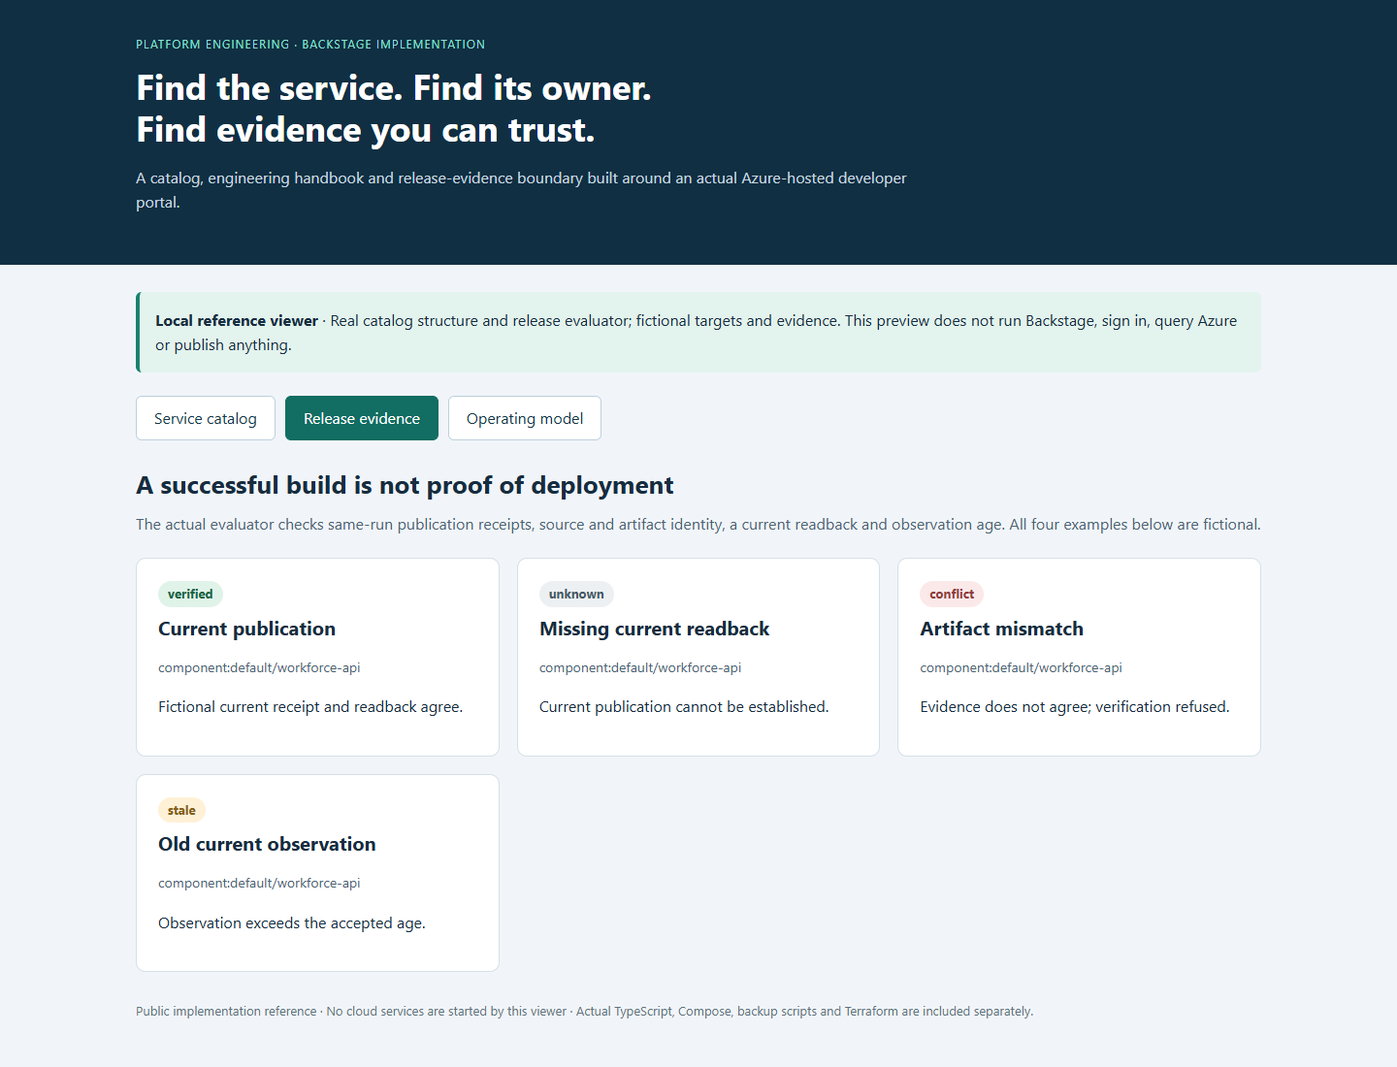
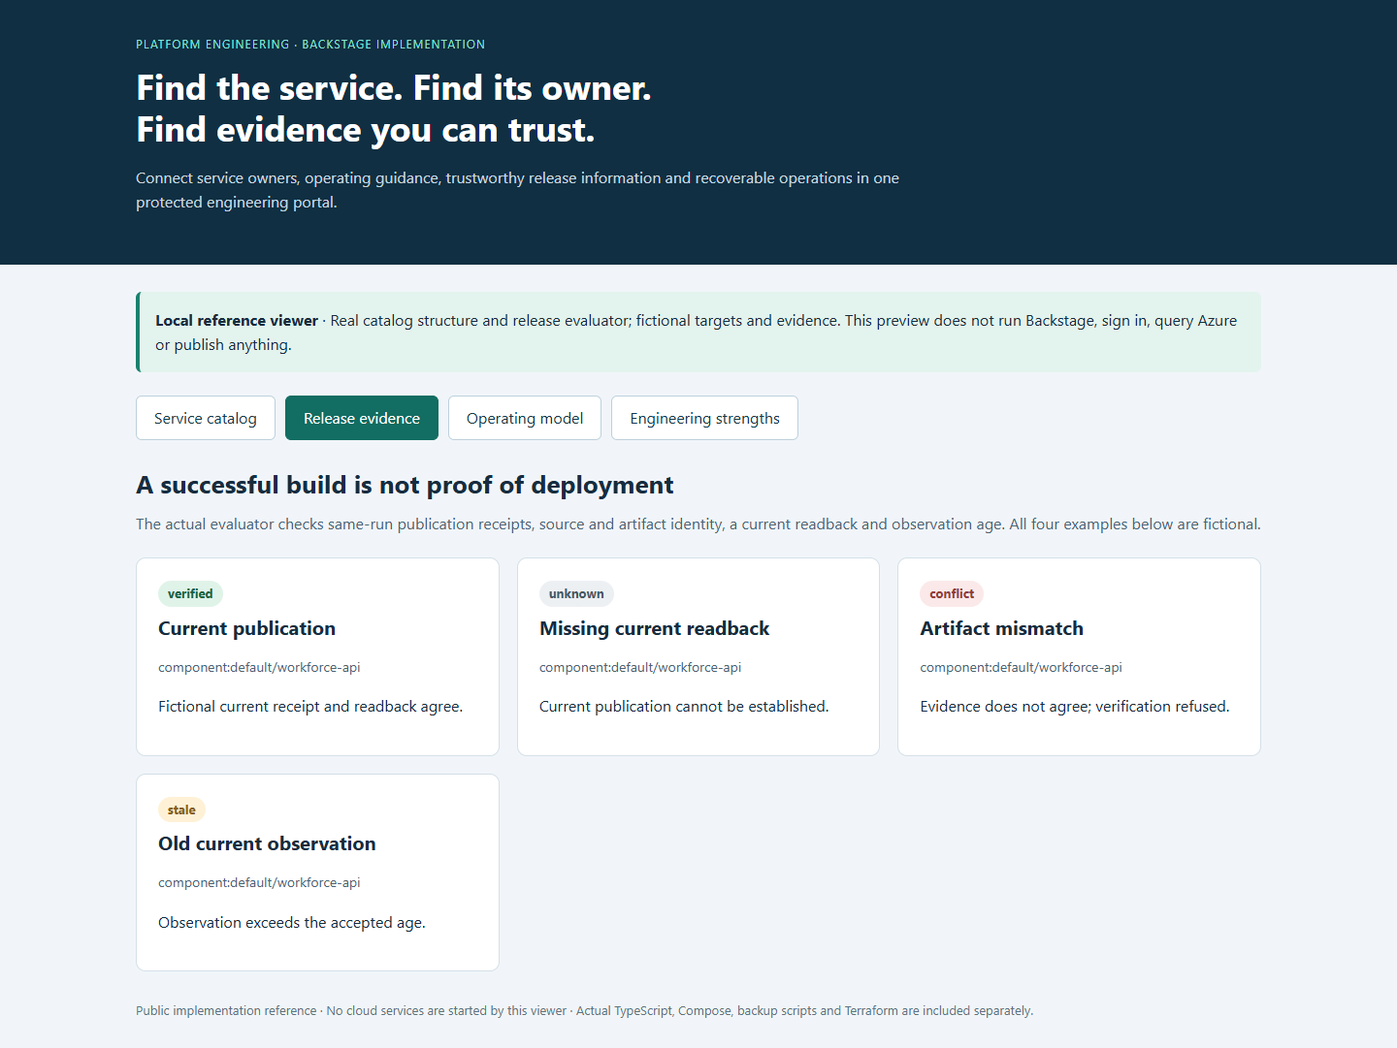
Highlight evidenced Backstage engineering strengths

diff --git a/preview/index.html b/preview/index.html
@@ -1,6 +1,6 @@
 <!doctype html><html lang="en"><meta charset="utf-8"><meta name="viewport" content="width=device-width,initial-scale=1"><title>Engineering portal reference</title><style>
 *{box-sizing:border-box}body{margin:0;background:#f1f5f9;color:#172c3e;font:16px/1.6 system-ui,sans-serif}header{background:#102f42;color:white;padding:36px max(24px,calc((100vw - 1160px)/2))}header p{color:#c7d8e1;max-width:820px}h1{font-size:36px;line-height:1.2;margin:12px 0}main{max-width:1208px;margin:auto;padding:28px 24px}.tag{font-size:12px;letter-spacing:.09em;text-transform:uppercase;color:#89e2d1}.notice{background:#e3f3ed;border-left:4px solid #18816d;padding:16px;margin-bottom:24px;border-radius:6px}nav{display:flex;gap:10px;flex-wrap:wrap;margin:24px 0}button{font:inherit;border:1px solid #bdd0dc;background:white;color:#17394a;padding:9px 18px;border-radius:6px;cursor:pointer}button[aria-selected=true]{background:#126d62;color:white;border-color:#126d62}.cards{display:grid;grid-template-columns:repeat(3,1fr);gap:18px}.card{background:white;border:1px solid #d4e0e8;border-radius:10px;padding:22px;overflow-wrap:anywhere}.card h3{margin:5px 0 12px;font-size:20px}.kind{font-size:12px;font-weight:700;text-transform:uppercase;color:#4d6c7f}.meta{font-size:14px;color:#4b6474}.status{display:inline-block;padding:3px 10px;border-radius:20px;background:#e0f3e9;color:#186344;font-size:13px;font-weight:bold}.unknown{background:#edf0f3;color:#465866}.conflict{background:#fbe9e9;color:#913c3c}.stale{background:#fff1d6;color:#84601d}h2{margin:12px 0 8px;font-size:26px}.intro{color:#4b6474;margin:0 0 22px}.flow{display:flex;gap:12px;flex-wrap:wrap;align-items:center}.flow strong{background:#e6f2f3;padding:12px;border-radius:6px}footer{font-size:13px;color:#5d7380;margin-top:30px}section[hidden]{display:none}@media(max-width:850px){.cards{grid-template-columns:1fr 1fr}h1{font-size:30px}}@media(max-width:560px){.cards{grid-template-columns:1fr}header{padding:24px}main{padding:22px 18px}}
-</style><header><div class="tag">Platform engineering · Backstage implementation</div><h1>Find the service. Find its owner.<br>Find evidence you can trust.</h1><p>A catalog, engineering handbook and release-evidence boundary built around an actual Azure-hosted developer portal.</p></header><main><div class="notice"><strong>Local reference viewer</strong> · Real catalog structure and release evaluator; fictional targets and evidence. This preview does not run Backstage, sign in, query Azure or publish anything.</div><nav aria-label="Reference sections"><button aria-selected="true" data-tab="catalog">Service catalog</button><button aria-selected="false" data-tab="evidence">Release evidence</button><button aria-selected="false" data-tab="operations">Operating model</button></nav><section id="catalog"><h2>Services, infrastructure and ownership</h2><p class="intro">Catalog metadata connects components to their engineering owners and dependencies. It does not grant access or prove service health.</p><div id="entities" class="cards"></div></section><section id="evidence" hidden><h2>A successful build is not proof of deployment</h2><p class="intro">The actual evaluator checks same-run publication receipts, source and artifact identity, a current readback and observation age. All four examples below are fictional.</p><div id="results" class="cards"></div></section><section id="operations" hidden><h2>Controlled sessions, recoverable state</h2><p class="intro">The implemented single-VM profile balances an internal engineering portal with deliberate runtime and recovery controls.</p><div class="cards"><article class="card"><div class="kind">Access path</div><h3>Two identity layers</h3><p>HTTPS → Caddy → OAuth2 Proxy → Backstage. The ingress group gate and backend engineer policy serve different purposes.</p></article><article class="card"><div class="kind">Persistent state</div><h3>Database + handbook</h3><p>PostgreSQL stays on the internal Docker network. TechDocs publications mount read-only. Protected credentials and TLS state recover separately.</p></article><article class="card"><div class="kind">Cost and recovery</div><h3>Start intentionally</h3><p>Preflight → pull pinned images → start → verify → back up → stop → deallocate. The backup timer never starts a VM.</p></article></div></section><footer>Public implementation reference · No cloud services are started by this viewer · Actual TypeScript, Compose, backup scripts and Terraform are included separately.</footer></main><script>
+</style><header><div class="tag">Platform engineering · Backstage implementation</div><h1>Find the service. Find its owner.<br>Find evidence you can trust.</h1><p>Connect service owners, operating guidance, trustworthy release information and recoverable operations in one protected engineering portal.</p></header><main><div class="notice"><strong>Local reference viewer</strong> · Real catalog structure and release evaluator; fictional targets and evidence. This preview does not run Backstage, sign in, query Azure or publish anything.</div><nav aria-label="Reference sections"><button aria-selected="true" data-tab="catalog">Service catalog</button><button aria-selected="false" data-tab="evidence">Release evidence</button><button aria-selected="false" data-tab="operations">Operating model</button><button aria-selected="false" data-tab="strengths">Engineering strengths</button></nav><section id="catalog"><h2>Services, infrastructure and ownership</h2><p class="intro">Catalog metadata connects components to their engineering owners and dependencies. It does not grant access or prove service health.</p><div id="entities" class="cards"></div></section><section id="evidence" hidden><h2>A successful build is not proof of deployment</h2><p class="intro">The actual evaluator checks same-run publication receipts, source and artifact identity, a current readback and observation age. All four examples below are fictional.</p><div id="results" class="cards"></div></section><section id="operations" hidden><h2>Controlled sessions, recoverable state</h2><p class="intro">The implemented single-VM profile balances an internal engineering portal with deliberate runtime and recovery controls.</p><div class="cards"><article class="card"><div class="kind">Access path</div><h3>Two identity layers</h3><p>HTTPS → Caddy → OAuth2 Proxy → Backstage. The ingress group gate and backend engineer policy serve different purposes.</p></article><article class="card"><div class="kind">Persistent state</div><h3>Database + handbook</h3><p>PostgreSQL stays on the internal Docker network. TechDocs publications mount read-only. Protected credentials and TLS state recover separately.</p></article><article class="card"><div class="kind">Cost and recovery</div><h3>Start intentionally</h3><p>Preflight → pull pinned images → start → verify → back up → stop → deallocate. The backup timer never starts a VM.</p></article></div></section><section id="strengths" hidden><h2>Built to help engineers operate with confidence</h2><p class="intro">Each strength is backed by actual source. The local viewer does not claim fresh sign-in, deployment or recovery acceptance.</p><div class="cards"><article class="card"><div class="kind">Discovery</div><h3>Ownership with context</h3><p>Find the responsible team, linked dependencies and operating guidance instead of searching disconnected files.</p></article><article class="card"><div class="kind">Controlled access</div><h3>Separate read and write authority</h3><p>Ingress admission, backend user mapping and policy checks serve different purposes. The optional writer stays separate and Off by default.</p></article><article class="card"><div class="kind">Release confidence</div><h3>Uncertainty stays visible</h3><p>Verified, Unknown, Conflict and Stale distinguish a current release from an assumption based on a green build.</p></article><article class="card"><div class="kind">Recovery</div><h3>Check more than the upload</h3><p>Database inventories, file hashes, off-host copies and an isolated restore helper make recovery inspectable.</p></article><article class="card"><div class="kind">Runtime</div><h3>Repeatable startup</h3><p>Selected image digests, protected inputs and preflight checks catch known mistakes before starting the stack.</p></article><article class="card"><div class="kind">Operating footprint</div><h3>Start for a purpose</h3><p>On-demand engineering sessions and explicit deallocation limit compute use while making retained costs visible.</p></article></div></section><footer>Public implementation reference · No cloud services are started by this viewer · Actual TypeScript, Compose, backup scripts and Terraform are included separately.</footer></main><script>
 document.querySelectorAll('nav button').forEach(button=>button.addEventListener('click',()=>{document.querySelectorAll('nav button').forEach(b=>b.setAttribute('aria-selected',String(b===button)));document.querySelectorAll('main section').forEach(s=>s.hidden=s.id!==button.dataset.tab)}));
 function element(tag,text,cls){const e=document.createElement(tag);e.textContent=text;if(cls)e.className=cls;return e}
 fetch('/data.json').then(r=>{if(!r.ok)throw Error('Reference data unavailable');return r.json()}).then(data=>{for(const obj of data.entities){const card=element('article','','card');card.append(element('div',obj.kind,'kind'),element('h3',obj.metadata.title||obj.metadata.name),element('p',obj.metadata.description||'Technical platform catalog entity.'));card.append(element('p','Owner: '+(obj.spec.owner||'Engineering catalog'),'meta'));if(obj.spec.dependsOn)card.append(element('p',obj.spec.dependsOn.length+' linked dependencies','meta'));document.getElementById('entities').append(card)}for(const row of data.evidence){const card=element('article','','card');card.append(element('div',row.state,'status '+row.state),element('h3',row.scenario),element('p',row.componentRef,'meta'),element('p',row.state==='verified'?'Fictional current receipt and readback agree.':row.state==='unknown'?'Current publication cannot be established.':row.state==='conflict'?'Evidence does not agree; verification refused.':'Observation exceeds the accepted age.'));document.getElementById('results').append(card)}}).catch(error=>document.getElementById('entities').append(element('p',error.message)));

diff --git a/docs/ENGINEERING-STRENGTHS.md b/docs/ENGINEERING-STRENGTHS.md
@@ -1,0 +1,67 @@
+# Engineering Strengths and Practical Value
+
+The value of this Backstage implementation comes from joining useful engineering information with controlled access and recoverable operations. The public project includes actual implementation source, a fictional local viewer and clearly bounded tests. Those evidence types support different claims.
+
+## 1. Ownership is part of service discovery
+
+A component entry identifies its owner and dependencies, rather than offering only a bookmark. An engineer investigating a worker can move from that component to the surrounding API, identity, storage and operational context. This helps route questions and plan changes without guessing who owns the affected system.
+
+The public catalog contains 16 entities. Its checks cover valid Location targets, unique references and component ownership. Entries still require review and maintenance; catalog metadata does not grant access or prove live health.
+
+**Evidence:** [actual catalog](../catalog/), [catalog checks](../tests/test_catalog.py), [catalog and handbook guide](CATALOG-AND-TECHDOCS.md).
+
+## 2. The handbook has a controlled publication path
+
+TechDocs places operating guidance beside the service catalog. The actual VM profile serves externally built documentation through a read-only mount. This keeps document generation separate from the serving process and gives publication its own version and rollback boundary.
+
+The handbook backup identifies one publication, retrieves the archive again and checks file hashes. That is stronger than assuming an upload completed correctly. The public repository does not include the private handbook or prove a fresh hosted publication.
+
+**Evidence:** [production configuration](../reference/config/app-config.production.yaml), [TechDocs backup](../runtime/vm/backup-techdocs.sh).
+
+## 3. Admission, identity and permissions are separate controls
+
+The HTTPS edge delegates admission to OAuth2 Proxy and an engineering-group gate. Backstage uses a different Entra application to map the signed-in user to a known catalog identity. The hosted permission policy then checks approved engineer references and permitted operations.
+
+Approved reads do not become general catalog-write or deployment permission. Software-template actions require an explicit switch, listed maintainer, approved action IDs and own-task conditions. A separate writer identity/key is absent from default mounts. This limits what an ordinary portal session can do, while keeping a reviewed extension path available.
+
+More identity layers also mean more configuration and sessions to operate. These controls must be checked together in a real sign-in test; the offline viewer does not enforce or emulate them.
+
+**Evidence:** [identity guide](IDENTITY.md), [permission policy](../reference/backend/permissionPolicy.ts), [default Compose](../runtime/vm/compose.yaml), [optional writer overlay](../runtime/vm/compose.templates.yaml).
+
+## 4. Release information says what the evidence actually proves
+
+The evaluator compares a selected source and artifact, the publication receipt from that run and a fresh observation of what is currently deployed. This makes the portal useful during release and rollback work: engineers can distinguish “the build passed” from “this artifact is running.”
+
+Its four states preserve uncertainty. Verified requires agreement; Unknown means evidence is insufficient; Conflict identifies disagreement; Stale means the observation is too old. Nine original evaluator tests and the local demonstration exercise these decisions. The evaluator itself does not authenticate or fetch evidence; its trusted reader must do that separately.
+
+**Evidence:** [release guide](RELEASE-EVIDENCE.md), [evaluator](../reference/releases/evaluate.py), [tests](../reference/releases/test_evaluate.py).
+
+## 5. Backups lead toward a testable recovery process
+
+The session wrapper allows one backup at a time and pauses backend writes during the database dump. The database helper records an inventory and checksum, uploads through managed identity and refuses to overwrite the retained object. The restore helper checks the checksum and can compare the inventory inside a disposable PostgreSQL container with no network.
+
+Handbook publications have a separate archive verification path. Credentials, the private engineer roster and TLS state must be recovered through their protected process. Keeping those dependencies explicit is essential: a database dump alone is not a recovered portal.
+
+This public project checked code and configuration; it did not create a new backup, perform a live restore or measure RTO/RPO. Consistent backups require a brief backend pause, and actual recovery points depend on successful off-host copies.
+
+**Evidence:** [recovery guide](RECOVERY.md), [session wrapper](../runtime/vm/backup-session.sh), [database backup](../runtime/vm/backup-postgres.sh), [isolated restore helper](../runtime/vm/check-restore.sh).
+
+## 6. Startup catches avoidable configuration mistakes
+
+The runtime checks selected image digests, distinct identity applications and protected input files before starting the stack. PostgreSQL has no published host port, and only the HTTPS edge exposes a port. The VM identity pulls approved images and writes backups without distributing a storage account key.
+
+These are specific controls, not a complete security certification. A pinned image still needs current vulnerability review, protected files still need secret lifecycle management, and private container networks do not remove every host-level risk.
+
+**Evidence:** [preflight](../runtime/vm/preflight.py), [Compose contract](../runtime/vm/check-compose.py), [architecture](ARCHITECTURE.md), [deployment](DEPLOYMENT.md).
+
+## 7. Cost controls fit the usage pattern
+
+A single VM and Compose stack provide an understandable footprint for intentional engineering sessions. The backup timer runs only during an active stack and does not wake the VM. The operating procedure ends with backup, stop and deallocation.
+
+Deallocation stops compute billing while disks, static IP, registry and backup storage can still cost money. The VM remains one failure domain. Sustained use may justify managed PostgreSQL, external TechDocs storage and multiple backends after measuring demand and rehearsing the resulting access/recovery paths.
+
+**Evidence:** [operations](OPERATIONS.md), [backup timer](../runtime/vm/backstage-backup.timer.example), [Terraform](../infra/README.md), [growth and tradeoffs](SCALING.md).
+
+## What this demonstrates
+
+The project shows platform engineering beyond installing a portal: service ownership, usable operating guidance, separate identity boundaries, cautious release information, deliberate recovery and a usage-based operating model. The implementation remains honest about its single-VM limits and the difference between source tests, local reference screenshots and live acceptance.

diff --git a/README.md b/README.md
@@ -1,8 +1,8 @@
 # Backstage Developer Portal on Azure
 
-**Give engineers one place to find the system, its owner and the instructions for running it.**
+**Connect service ownership, engineering guidance, trustworthy release information and recovery in one protected portal.**
 
-[Business problem](#the-business-problem) · [Solution](#the-solution) · [What was built](#what-was-built) · [Proof it works](#proof-it-works) · [Commands](docs/COMMANDS.md)
+[Business problem](#the-business-problem) · [Solution](#the-solution) · [Engineering strengths](#engineering-strengths) · [What was built](#what-was-built) · [Proof it works](#proof-it-works) · [Commands](docs/COMMANDS.md)
 
 ![Local catalog reference](docs/images/01-catalog.png)
 
@@ -14,7 +14,25 @@ As the platform grew, information about applications, background jobs, storage a
 
 Use Backstage to bring the service list, engineering handbook and release information together. Run the portal separately from the employee application, restrict engineer access with Microsoft sign-in, and save its database and handbook outside the server.
 
-**Business outcome:** Engineers can find the right owner and instructions, check release information, and recover the portal without confusing it with the employee application.
+**Business outcome:** Engineers have a clearer path from “what runs this service?” to its owner, operating instructions and release evidence. The portal has its own access and recovery controls, so it can support engineering work without becoming another route into employee records.
+
+## Engineering Strengths
+
+The portal connects discovery, controlled access and day-to-day operations. Each strength has an explicit purpose and supporting implementation.
+
+| Strength | Why it matters | Evidence in this project |
+| --- | --- | --- |
+| **A service catalog with ownership and dependencies** | Engineers can find who maintains a component and what it relies on before changing it or investigating a failure. | [Catalog entities](catalog/) and [catalog checks](tests/test_catalog.py) |
+| **Operating guidance beside the service** | TechDocs gives engineers a consistent place to find the handbook instead of searching disconnected files. Publications mount read-only in the serving portal. | [Catalog and TechDocs](docs/CATALOG-AND-TECHDOCS.md) |
+| **Engineer access with explicit permissions** | The ingress group gate, backend user mapping and read-oriented policy make separate access decisions. Optional template writing uses a separate identity and stays Off by default. | [Identity design](docs/IDENTITY.md) and [permission policy](reference/backend/permissionPolicy.ts) |
+| **Release status that refuses false certainty** | Missing, conflicting or old observations stay Unknown, Conflict or Stale. A green build is not presented as proof that a release is running. | [Actual evaluator](reference/releases/evaluate.py) and nine original tests |
+| **Recovery designed into operations** | Database inventories, checksums, off-host copies and an isolated restore helper make recovery inspectable. Handbook archives are downloaded again and verified. | [Recovery process](docs/RECOVERY.md) and [restore helper](runtime/vm/check-restore.sh) |
+| **Repeatable and cautious startup** | Exact image digests, protected host inputs and preflight checks catch known configuration mistakes before the stack starts. Only the HTTPS edge publishes a port. | [Preflight](runtime/vm/preflight.py) and [Compose checks](runtime/vm/check-compose.py) |
+| **An intentional operating footprint** | The on-demand VM model fits occasional engineering sessions. Backup timers do not wake a stopped VM; shutdown and deallocation are explicit operating steps. | [Operations](docs/OPERATIONS.md) and [scaling/costs](docs/SCALING.md) |
+
+![Engineering strengths in the local reference viewer](docs/images/05-strengths.png)
+
+[How these strengths work together](docs/ENGINEERING-STRENGTHS.md) explains the practical value, source evidence and limits of each choice. The portal is a single-VM design, not a claim of high availability or measured recovery times.
 
 ### Actual implementation and public reference
 
@@ -132,6 +150,7 @@ Scale from measured catalog/search latency, documentation access, database growt
 
 | Guide | What it explains |
 | --- | --- |
+| [Engineering strengths](docs/ENGINEERING-STRENGTHS.md) | Practical value and evidence behind the main design choices |
 | [Architecture](docs/ARCHITECTURE.md) | Portal, business application and infrastructure boundaries |
 | [Identity and permissions](docs/IDENTITY.md) | Two Entra layers, engineer policy and separate writer |
 | [Catalog and TechDocs](docs/CATALOG-AND-TECHDOCS.md) | Ownership, publication and read-only serving |

diff --git a/docs/VALIDATION.md b/docs/VALIDATION.md
@@ -25,3 +25,11 @@ Screenshots show the new local reference viewer using actual catalog/evaluator s
 [Machine-readable result](validation-results.json) records this exact scope. Tests do not authenticate the hypothetical evidence inputs; the real reader must do that separately.
 
 A final bash syntax check caught retained Windows line endings in copied source. They were normalized to LF and protected with .gitattributes; the manual workflow now checks every copied shell helper without executing it.
+
+## Strengths-focused presentation review — November 6
+
+Reviewed identity policy, catalog/TechDocs publication, release evaluation, runtime startup, backups and growth guidance before updating the README and adding the engineering-strengths guide. The review changes presentation, not the runtime or Terraform.
+
+The nine original release-evaluator tests and five public catalog checks were rerun: all 14 passed. The refreshed local viewer passed four-section navigation, 16 catalog entities, four release states, six strengths cards and a 390-pixel mobile layout, with zero page errors or external requests. Five reference screenshots were refreshed. The earlier Linux startup and Terraform results above remain dated evidence; they were not repeated for these presentation-only changes.
+
+No Backstage stack, Azure VM, sign-in, backup/restore, cloud operation or hosted GitHub check was started. Repository-relative links and public labels were checked before publication.

diff --git a/docs/SCALING.md b/docs/SCALING.md
@@ -1,5 +1,7 @@
 # Strengths, weaknesses and scaling tradeoffs
 
+The design prioritizes useful engineering discovery, explicit access and recoverable operations at a modest operating footprint. [The strengths guide](ENGINEERING-STRENGTHS.md) connects each advantage to its implementation evidence. The table below explains the cost of those choices rather than treating them as universal defaults.
+
 | Choice | Strength | Weakness / tradeoff |
 | --- | --- | --- |
 | Backstage catalog + TechDocs | One discovery path across services, owners and operating guidance | Metadata and documentation publication require ownership and maintenance |

diff --git a/docs/SCREENSHOT-PLAN.md b/docs/SCREENSHOT-PLAN.md
@@ -5,3 +5,5 @@
 3. Operating model/mobile — local viewer with clear architecture and recovery boundaries.
 
 These are genuine local browser captures, explicitly not the Backstage application or Azure Portal. A later authorized hosted evidence session could capture catalog/handbook, denied access and portal/deployment metadata with private identifiers excluded. No VM is started for screenshots in this project.
+
+4. Engineering strengths — six practical advantages grounded in the included implementation. The refreshed viewer has four sections, including this additional strengths tab.
